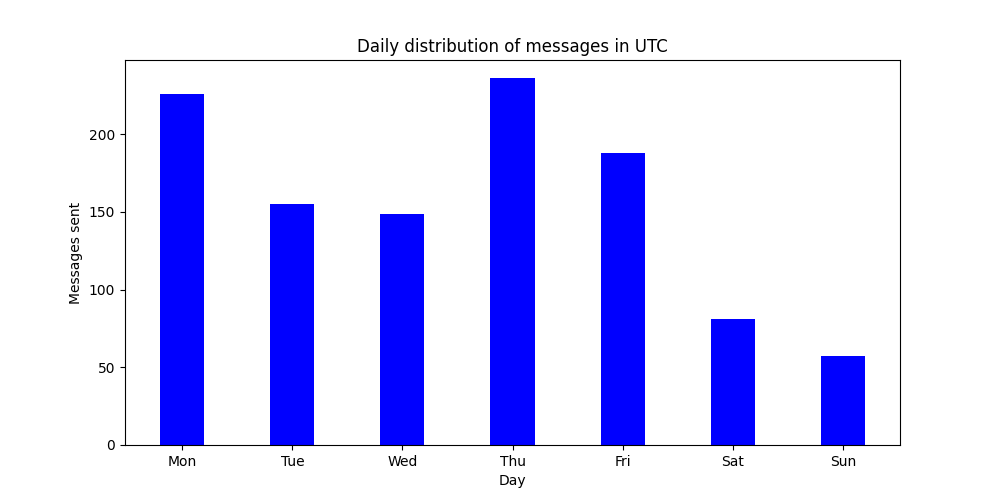
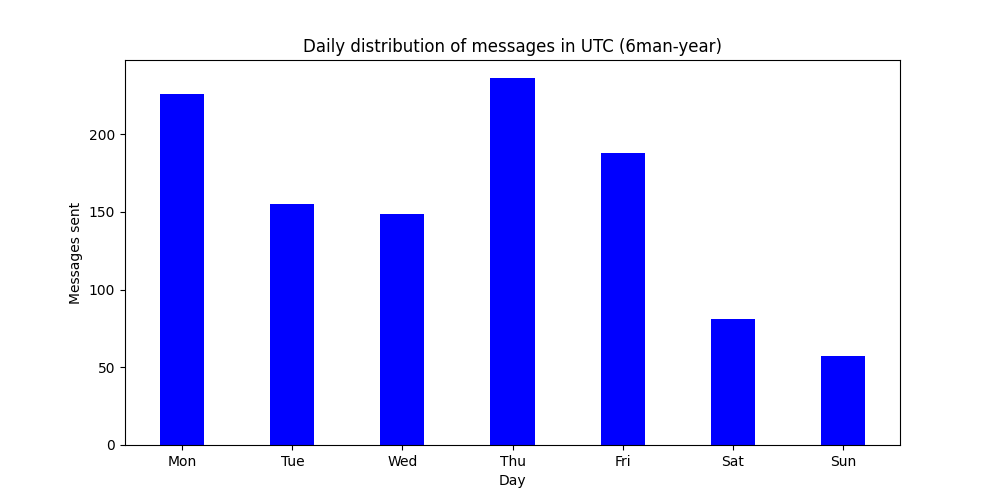
Improved graph captions

Changed region(s): [[0.31, 0.06, 0.713, 0.12]]

diff --git a/whenmail/mdates.py b/whenmail/mdates.py
@@ -73,6 +73,8 @@ tag = askstring(T, "Enter meaningful identifier for output graphs")
 if len(tag) < 1:
     tag = "mbox"
 
+tagstring = " ("+tag+")"
+
 me = askstring(T, "Enter string to exclude matching senders (or nil)")
 if len(me) > 3:
     showinfo(title=T,
@@ -189,7 +191,7 @@ plot.bar(hournames, h, color ='blue',
         width = 0.4) 
 plot.xlabel("Hour")
 plot.ylabel("Messages sent")
-plot.title("Hourly distribution of messages in sender's local time zone")
+plot.title("Hourly distribution of messages in sender's local time zone"+tagstring)
 plot.savefig(fn+"-hourly-local.png", format="png")
 plot.show()
 
@@ -208,7 +210,7 @@ plot.bar(hournames, h, color ='blue',
         width = 0.4) 
 plot.xlabel("Hour")
 plot.ylabel("Messages sent")
-plot.title("Hourly distribution of messages in UTC")
+plot.title("Hourly distribution of messages in UTC"+tagstring)
 plot.savefig(fn+"-hourly-UTC.png", format="png")
 plot.show()
 
@@ -224,7 +226,7 @@ plot.bar(daynames, wkday, color ='blue',
         width = 0.4) 
 plot.xlabel("Day")
 plot.ylabel("Messages sent")
-plot.title("Daily distribution of messages in sender's local time zone")
+plot.title("Daily distribution of messages in sender's local time zone"+tagstring)
 plot.savefig(fn+"-daily-local.png", format="png")
 plot.show()
 
@@ -238,7 +240,7 @@ plot.bar(daynames, wkday, color ='blue',
         width = 0.4) 
 plot.xlabel("Day")
 plot.ylabel("Messages sent")
-plot.title("Daily distribution of messages in UTC")
+plot.title("Daily distribution of messages in UTC"+tagstring)
 plot.savefig(fn+"-daily-UTC.png", format="png")
 plot.show()
 
